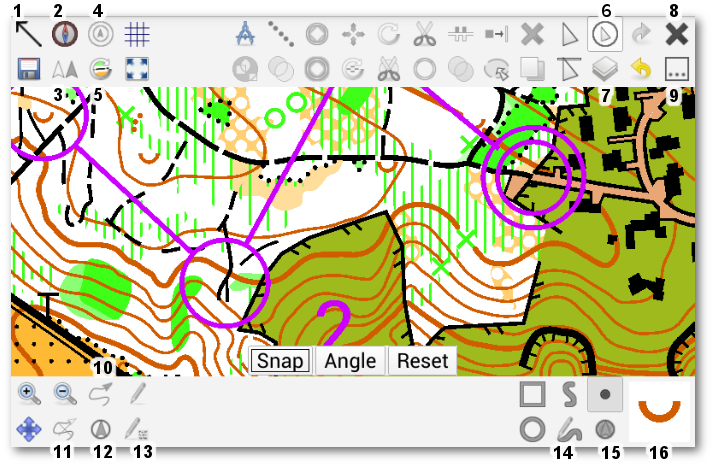
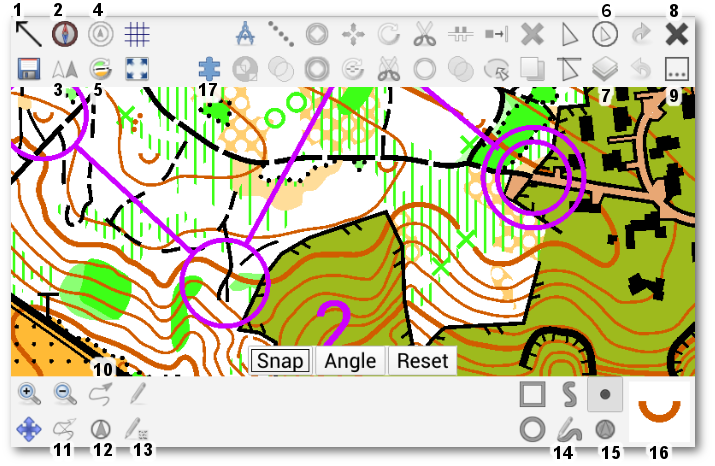
android-app: Add map parts selector

diff --git a/pages/android-app.md b/pages/android-app.md
@@ -89,3 +89,8 @@ Sets a point object at the GPS position. Selecting this button first enters an a
 (16) Symbol selector
 
 Displays the active symbol, and opens the symbol selection screen when touched.
+
+(17) Map parts selector
+
+This button opens a popup for changing the active map part.
+
